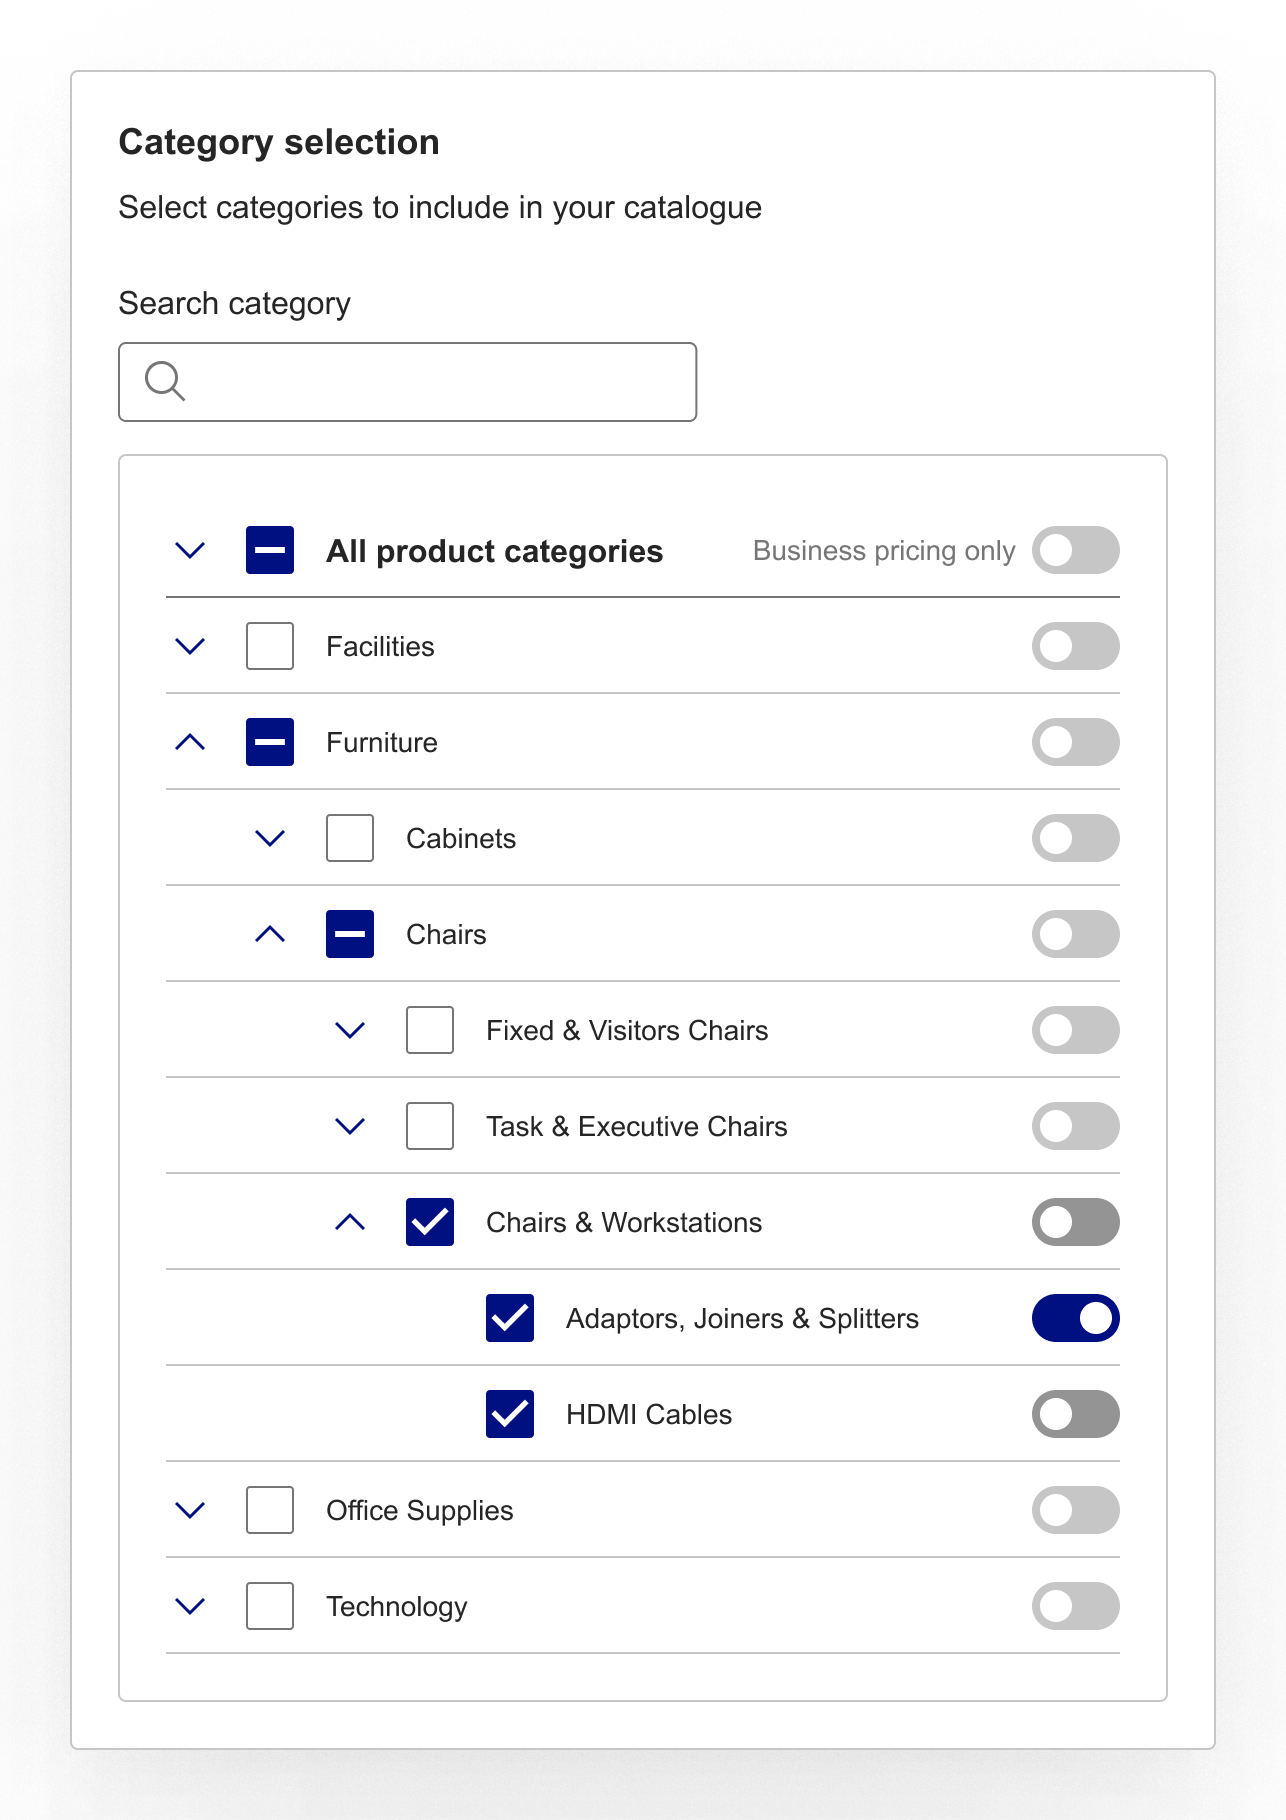
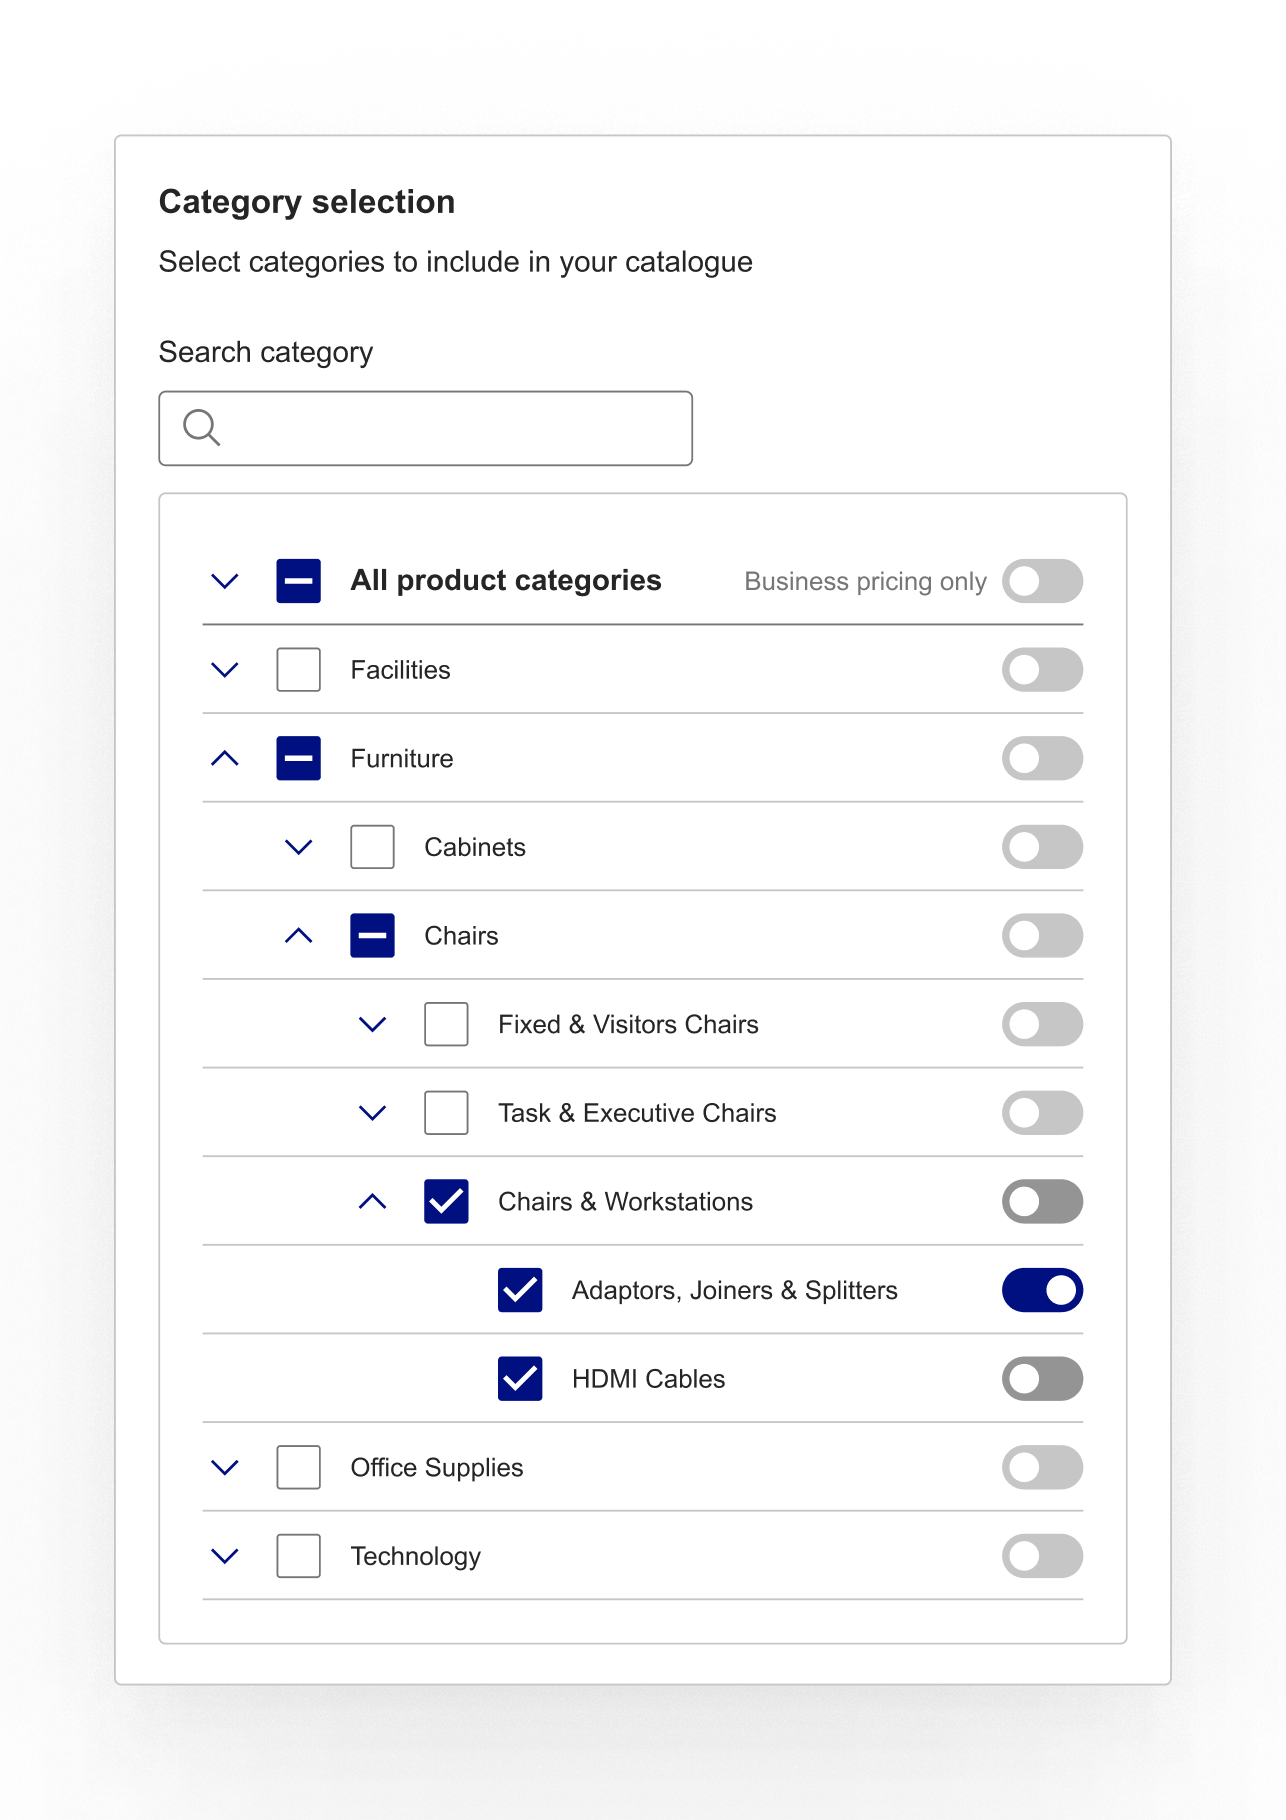
feat: animated underline text, wave path component, and Officeworks image updates

diff --git a/components/ui/IntroSection.tsx b/components/ui/IntroSection.tsx
@@ -51,6 +51,7 @@ import { motion, AnimatePresence, useInView, useReducedMotion, useMotionValue, u
 import { cn } from '@/lib/utils';
 import { ClientsCarousel } from '@/components/ui/ClientsCarousel';
 import { ClientsCarouselV2 } from '@/components/ui/ClientsCarouselV2';
+import { WavePath } from '@/components/ui/wave-path';
 
 // ─── types ────────────────────────────────────────────────────────────────────
 
@@ -222,24 +223,35 @@ export const IntroSection = forwardRef<HTMLElement, IntroSectionProps>(
                * onFocus/onBlur mirror the hover portrait so the effect is reachable
                * via Tab navigation.
                */}
-              <motion.button
-                variants={nameVariants}
-                type="button"
-                aria-label="Go to About section — Juan Pablo Castro"
-                className={cn(
-                  serif,
-                  'relative inline-block bg-transparent border-none p-0 cursor-pointer',
-                  'underline decoration-[var(--text-primary)] [text-decoration-thickness:1px] [text-underline-offset:14px]',
-                  'focus-visible:outline-none focus-visible:ring-2 focus-visible:ring-[var(--text-primary)] focus-visible:ring-offset-2 rounded-sm',
-                )}
-                onMouseEnter={() => setNameHovered(true)}
-                onMouseLeave={() => setNameHovered(false)}
-                onFocus={() => setNameHovered(true)}
-                onBlur={() => setNameHovered(false)}
-                onClick={() => document.getElementById('about')?.scrollIntoView({ behavior: 'smooth' })}
-              >
-                Juan Pablo Castro
-              </motion.button>
+              <span className="inline-flex flex-col">
+                <motion.button
+                  variants={nameVariants}
+                  type="button"
+                  aria-label="Go to About section — Juan Pablo Castro"
+                  className={cn(
+                    serif,
+                    'relative z-20 bg-transparent border-none p-0 cursor-pointer',
+                    'focus-visible:outline-none focus-visible:ring-2 focus-visible:ring-[var(--text-primary)] focus-visible:ring-offset-2 rounded-sm',
+                  )}
+                  onMouseEnter={() => setNameHovered(true)}
+                  onMouseLeave={() => setNameHovered(false)}
+                  onFocus={() => setNameHovered(true)}
+                  onBlur={() => setNameHovered(false)}
+                  onClick={() => document.getElementById('about')?.scrollIntoView({ behavior: 'smooth' })}
+                >
+                  Juan Pablo Castro
+                </motion.button>
+                <motion.span
+                  initial={{ opacity: 0 }}
+                  animate={isInView ? { opacity: 1 } : { opacity: 0 }}
+                  transition={{ delay: 2.2, duration: 0.8 }}
+                >
+                  <WavePath
+                    onLineMouseEnter={() => setNameHovered(true)}
+                    onLineMouseLeave={() => setNameHovered(false)}
+                  />
+                </motion.span>
+              </span>
 
               <motion.span variants={wordVariants} className={serif}>, a </motion.span>
               <motion.span variants={wordVariants} className={sans}>Product Designer </motion.span>

diff --git a/components/ui/wave-path.tsx b/components/ui/wave-path.tsx
@@ -1,0 +1,88 @@
+'use client';
+import React, { useRef, useEffect } from 'react';
+import { cn } from '@/lib/utils';
+
+type WavePathProps = React.ComponentProps<'div'> & {
+  onLineMouseEnter?: () => void;
+  onLineMouseLeave?: () => void;
+};
+
+export function WavePath({ className, onLineMouseEnter, onLineMouseLeave, ...props }: WavePathProps) {
+  const containerRef = useRef<HTMLDivElement>(null);
+  const path = useRef<SVGPathElement>(null);
+  let progress = 0;
+  let x = 0.2;
+  let time = Math.PI / 2;
+  let reqId: number | null = null;
+
+  const getWidth = () => containerRef.current?.offsetWidth ?? window.innerWidth * 0.7;
+
+  useEffect(() => {
+    setPath(progress);
+  }, []);
+
+  const setPath = (progress: number) => {
+    const width = getWidth();
+    if (path.current) {
+      path.current.setAttributeNS(
+        null,
+        'd',
+        `M0 100 Q${width * x} ${100 + progress * 0.6}, ${width} 100`,
+      );
+    }
+  };
+
+  const lerp = (x: number, y: number, a: number) => x * (1 - a) + y * a;
+
+  const manageMouseEnter = () => {
+    if (reqId) {
+      cancelAnimationFrame(reqId);
+      resetAnimation();
+    }
+  };
+
+  const manageMouseMove = (e: React.MouseEvent) => {
+    const { movementY, clientX } = e;
+    if (path.current) {
+      const pathBound = path.current.getBoundingClientRect();
+      x = (clientX - pathBound.left) / pathBound.width;
+      progress += movementY;
+      setPath(progress);
+    }
+  };
+
+  const manageMouseLeave = () => {
+    animateOut();
+  };
+
+  const animateOut = () => {
+    const newProgress = progress * Math.sin(time);
+    progress = lerp(progress, 0, 0.025);
+    time += 0.2;
+    setPath(newProgress);
+    if (Math.abs(progress) > 0.75) {
+      reqId = requestAnimationFrame(animateOut);
+    } else {
+      resetAnimation();
+    }
+  };
+
+  const resetAnimation = () => {
+    time = Math.PI / 2;
+    progress = 0;
+  };
+
+  return (
+    <div ref={containerRef} className={cn('relative h-px w-full', className)} {...props}>
+      <div
+        onMouseEnter={() => { manageMouseEnter(); onLineMouseEnter?.(); }}
+        onMouseMove={manageMouseMove}
+        onMouseLeave={() => { manageMouseLeave(); onLineMouseLeave?.(); }}
+        className="relative -top-5 z-10 h-10 w-full hover:-top-[150px] hover:h-[300px]"
+      />
+      <svg className="absolute -top-[100px] h-[300px] w-full">
+        <path ref={path} className="fill-none stroke-current" strokeWidth={1} />
+      </svg>
+    </div>
+  );
+}

diff --git a/components/ui/animated-underline-text-one.tsx b/components/ui/animated-underline-text-one.tsx
@@ -1,0 +1,86 @@
+import * as React from "react";
+import { motion, Variants } from "framer-motion";
+import { cn } from "@/lib/utils";
+
+interface AnimatedTextProps extends React.HTMLAttributes<HTMLDivElement> {
+  text: string;
+  textClassName?: string;
+  underlineClassName?: string;
+  underlinePath?: string;
+  underlineHoverPath?: string;
+  underlineDuration?: number;
+}
+
+const AnimatedText = React.forwardRef<HTMLDivElement, AnimatedTextProps>(
+  (
+    {
+      text,
+      textClassName,
+      underlineClassName,
+      underlinePath = "M 0,10 Q 75,0 150,10 Q 225,20 300,10",
+      underlineHoverPath = "M 0,10 Q 75,20 150,10 Q 225,0 300,10",
+      underlineDuration = 1.5,
+      ...props
+    },
+    ref
+  ) => {
+    const pathVariants: Variants = {
+      hidden: {
+        pathLength: 0,
+        opacity: 0,
+      },
+      visible: {
+        pathLength: 1,
+        opacity: 1,
+        transition: {
+          duration: underlineDuration,
+          ease: "easeInOut",
+        },
+      },
+    };
+
+    return (
+      <div
+        ref={ref}
+        className={cn("flex flex-col items-center justify-center gap-2", props.className)}
+      >
+        <div className="relative">
+          <motion.h1
+            className={cn("text-4xl font-bold text-center", textClassName)}
+            initial={{ y: -20, opacity: 0 }}
+            animate={{ y: 0, opacity: 1 }}
+            transition={{ duration: 0.6 }}
+            whileHover={{ scale: 1.02 }}
+          >
+            {text}
+          </motion.h1>
+
+          <motion.svg
+            width="100%"
+            height="20"
+            viewBox="0 0 300 20"
+            className={cn("absolute -bottom-4 left-0", underlineClassName)}
+          >
+            <motion.path
+              d={underlinePath}
+              stroke="currentColor"
+              strokeWidth="2"
+              fill="none"
+              variants={pathVariants}
+              initial="hidden"
+              animate="visible"
+              whileHover={{
+                d: underlineHoverPath,
+                transition: { duration: 0.8 },
+              }}
+            />
+          </motion.svg>
+        </div>
+      </div>
+    );
+  }
+);
+
+AnimatedText.displayName = "AnimatedText";
+
+export { AnimatedText };
